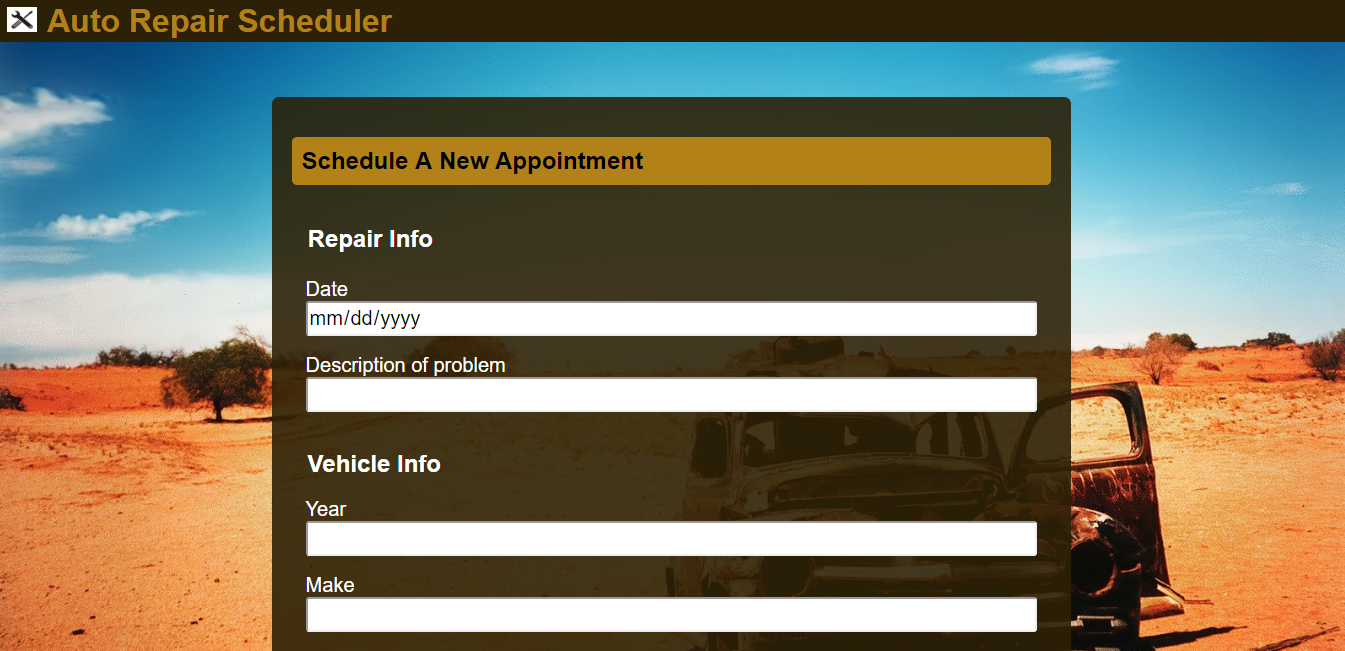
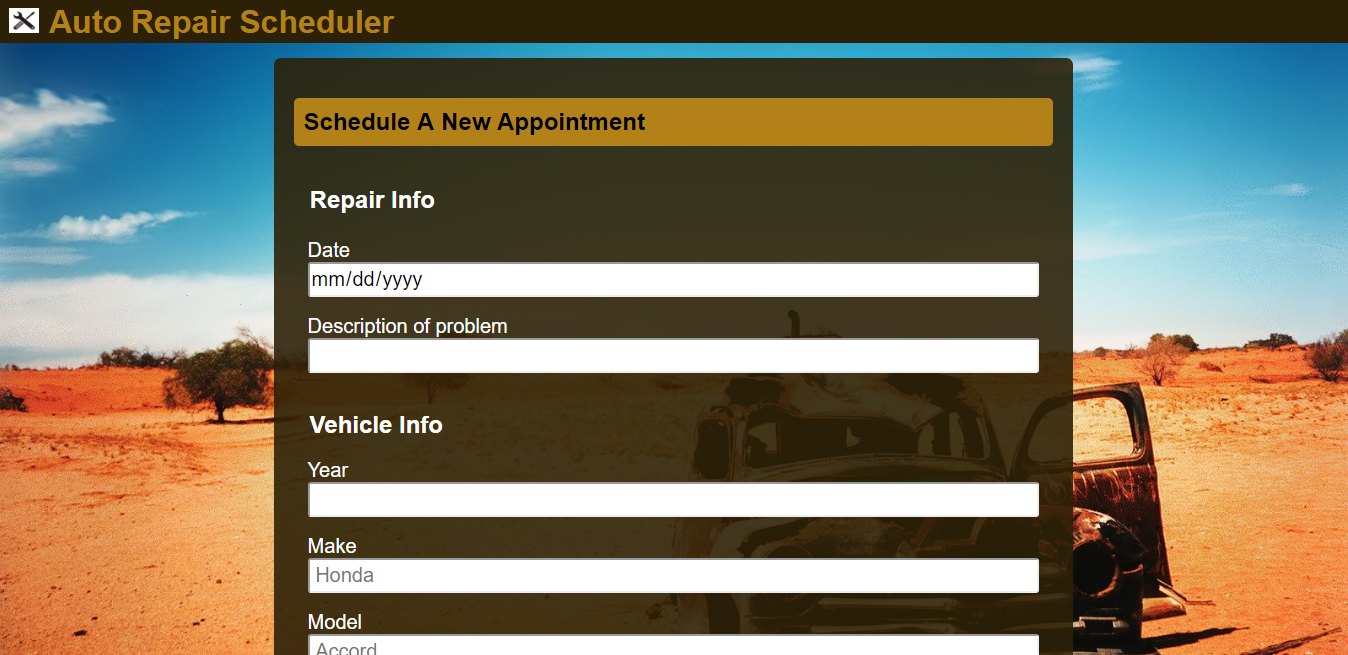
added copyright

diff --git a/public/index.js b/public/index.js
@@ -32,7 +32,7 @@ function getDataFromUserIdAPI(callback) {
 	$.ajax(settings);
 }
 
-//ajax function to used to add repair info or update contact info
+//ajax function used to add repair info or update contact info
 //depending on which data is sent to back end put function.
 function putRepairDataToUserApi(data, callback) {
 	console.log(userId);
@@ -52,6 +52,7 @@ function putRepairDataToUserApi(data, callback) {
 }
 
 //ajax function used to create new user
+//if fails returns specific error - example- password must be 10 characters
 function postDataToUserApi(data, callback) {
 	$('.js-error').hide();
 	const settings = {
@@ -73,6 +74,7 @@ function postDataToUserApi(data, callback) {
 
 
 //ajax function used to login to existing account
+//gives error message if problem with username or password
 function postDataToLoginApi(data, callback) {
 	$('.js-error').hide();
 	const settings = {
@@ -270,10 +272,10 @@ function renderScheduleForm() {
 				<input type="Number" id="year" required>
 				<br>
 				<label for="make">Make</label>
-				<input type="text" id="make" placeholder=" Exp Honda" required>
+				<input type="text" id="make" placeholder=" Honda" required>
 				<br>
 				<label for="model">Model</label>
-				<input type="text" id="model" placeholder=" Exp Accord" required>
+				<input type="text" id="model" placeholder=" Accord" required>
 				<br>	
 			</fieldset>
 			<button type="submit" class="submit-button">Submit</button>

diff --git a/public/index.css b/public/index.css
@@ -196,7 +196,6 @@ p {
 }
 
 .list {
-  /*width: 80%;*/
   list-style: none;
   padding: 20px;
   margin-top: 100px;
@@ -206,10 +205,11 @@ p {
   color: white;
   background-color: black;
   width: 50%;
-  margin-left: auto;
-  margin-right: auto;
+  position: absolute;
+  display: inline-table;
+  left: 25%;
   text-align: center;
-  margin-top: 380px;
+  top: 620px;
 }
 
 @media only screen and (max-width: 800px) {
@@ -222,9 +222,6 @@ p {
     width: 80%;
   }
 
-  .copyright {
-    margin-top: 350px;
-  }
 }
 
 @media only screen and (max-width: 600px) {
@@ -257,9 +254,7 @@ p {
     font-size: 20px;
   }
 
-  .copyright {
-    margin-top: 380px;
-  }
+  
 
   fieldset {
     font-size: 20px;
@@ -341,8 +336,8 @@ p {
     }
 
     .copyright {
-      margin-top: 300px;
-      font-size: 10px;
+      font-size: 12px;
     }
+ 
 }
   
